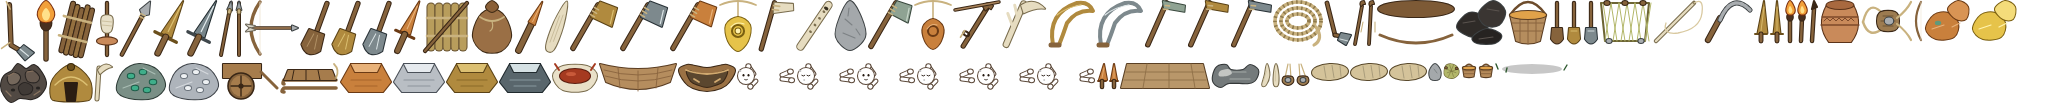
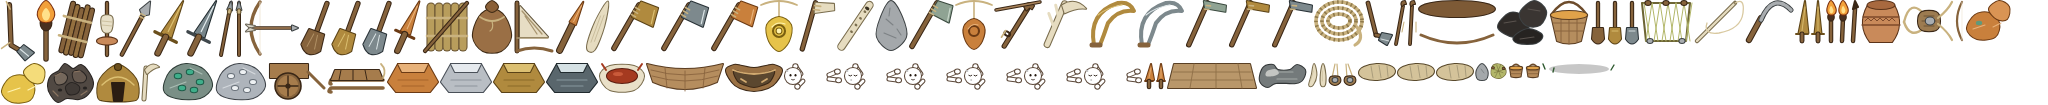
m15: enable long sea journeys with researched physical sails

diff --git a/src/sim/world/ComarcaFrontier.ts b/src/sim/world/ComarcaFrontier.ts
@@ -137,6 +137,14 @@ export class ComarcaFrontier {
         !Number.isSafeInteger(record.lastAdvancedTick) || record.lastAdvancedTick < record.departureTick || record.lastAdvancedTick > record.arrivalTick ||
         !Array.isArray(record.route) || record.route.length < 2 || !Number.isSafeInteger(record.provisions) || record.provisions < 0 || !Number.isSafeInteger(record.preservedProvisions) || record.preservedProvisions < 0 || record.preservedProvisions > record.provisions || !Number.isSafeInteger(record.cargoUnits) || record.cargoUnits < record.provisions || !Array.isArray(record.encounters) || !record.transit || typeof record.migration!=='boolean' || typeof record.playerTravelling!=='boolean' ||
         record.transit.recordType !== 'CheckpointRecord' || record.transit.version !== 1 || !edge(record.enteringEdge)) invalid('journey');
+    const transport = record.transport;
+    if (!transport || !['foot', 'sledge', 'cart', 'pack', 'riding', 'boat', 'sail'].includes(transport.mode) ||
+        !Number.isSafeInteger(transport.distance) || transport.distance < 1 || transport.distance !== record.route.length - 1 ||
+        !Number.isFinite(transport.days) || transport.days <= 0 ||
+        !Number.isSafeInteger(transport.maximumDistance) || transport.maximumDistance < transport.distance ||
+        !Number.isFinite(transport.cargoCapacity) || transport.cargoCapacity < 0 || typeof transport.crossedSea !== 'boolean' ||
+        (['boat', 'sail'].includes(transport.mode) && !transport.crossedSea) ||
+        record.encounters.some(kind => !['storm', 'wildlife', 'settlement'].includes(kind))) invalid('journey transport');
     RNG.fromSnapshot(record.rng);
     if(record.transit.lastAdvancedTick!==record.lastAdvancedTick || record.transit.execution.time.tick!==record.lastAdvancedTick ||
        record.route[0]?.cx!==record.source.cx || record.route[0]?.cy!==record.source.cy ||
@@ -268,7 +276,7 @@ export class ComarcaFrontier {
         const route=raw.route.map((p: unknown)=>{if(!object(p)) invalid('journey route'); exact(p,['cx','cy']); return {cx:tick(p.cx,'journey cx'),cy:tick(p.cy,'journey cy')};});
         exact(raw.transport,['distance','days','maximumDistance','mode','cargoCapacity','crossedSea']);
         const transport=raw.transport as unknown as JourneyTransport;
-        if(!Number.isFinite(transport.distance)||transport.distance<1||!Number.isFinite(transport.days)||transport.days<=0||!Number.isFinite(transport.maximumDistance)||transport.maximumDistance<transport.distance||!Number.isFinite(transport.cargoCapacity)||transport.cargoCapacity<0||typeof transport.crossedSea!=='boolean'||!['foot','sledge','cart','pack','riding','boat'].includes(transport.mode)||(transport.mode==='boat'&&!transport.crossedSea))invalid('journey transport');
+        if(!Number.isFinite(transport.distance)||transport.distance<1||!Number.isFinite(transport.days)||transport.days<=0||!Number.isFinite(transport.maximumDistance)||transport.maximumDistance<transport.distance||!Number.isFinite(transport.cargoCapacity)||transport.cargoCapacity<0||typeof transport.crossedSea!=='boolean'||!['foot','sledge','cart','pack','riding','boat','sail'].includes(transport.mode)||(transport.mode==='sail'&&!transport.crossedSea)||(transport.mode==='boat'&&!transport.crossedSea))invalid('journey transport');
         frontier.setJourney({recordType:'ComarcaJourneyRecord',version:1,actorId:safeId(raw.actorId,'journey actor'),travellerIds:(()=>{if(!Array.isArray(raw.travellerIds)||!raw.travellerIds.length)invalid('journey travellers');const ids=raw.travellerIds.map((id:unknown)=>safeId(id,'journey traveller'));if(new Set(ids).size!==ids.length||!ids.includes(raw.actorId as number))invalid('journey travellers');return ids;})(),source:identity(raw.source),destination:identity(raw.destination),departureTick:tick(raw.departureTick,'journey departure'),arrivalTick:tick(raw.arrivalTick,'journey arrival'),lastAdvancedTick:tick(raw.lastAdvancedTick,'journey advanced'),route,enteringEdge:raw.enteringEdge,provisions:tick(raw.provisions,'journey provisions'),preservedProvisions:tick(raw.preservedProvisions,'journey preserved provisions'),cargoUnits:tick(raw.cargoUnits,'journey cargo'),migration:raw.migration,playerTravelling:raw.playerTravelling,transport,transit:raw.transit as unknown as CheckpointRecord,rng:raw.rng as ReturnType<RNG['snapshot']>,encounters:raw.encounters.map((e:unknown)=>{if(typeof e!=='string') invalid('journey encounter'); return e;})});
       }
     }

diff --git a/src/sim/world/Transport.ts b/src/sim/world/Transport.ts
@@ -7,7 +7,7 @@ export interface JourneyTransport {
   readonly distance: number;
   readonly days: number;
   readonly maximumDistance: number;
-  readonly mode: 'foot' | 'sledge' | 'cart' | 'pack' | 'riding' | 'boat';
+  readonly mode: 'foot' | 'sledge' | 'cart' | 'pack' | 'riding' | 'boat' | 'sail';
   readonly cargoCapacity: number;
   readonly crossedSea: boolean;
 }
@@ -19,7 +19,6 @@ export interface JourneyTransportOptions {
   readonly mapHeight: number;
   readonly seaCells: number;
   readonly snow: boolean;
-  readonly animalSpeed?: number;
   readonly animal?: { readonly mode: 'pack' | 'riding'; readonly capacity: number; readonly speed: number } | null;
 }
 function equipped(person: Person, item: string): boolean {
@@ -33,7 +32,9 @@ export function journeyTransport(options: JourneyTransportOptions): JourneyTrans
   if (!Number.isSafeInteger(distance) || distance < 1 || options.mapHeight < 1 || options.mapWidth < 2) return null;
   const crossedSea = options.seaCells > 0;
   const hasLogboat = person.inventory.count('logboat') > 0 && techPower(person, 'logboat') > 0;
+  const hasSail = person.inventory.count('sail') > 0 && techPower(person, 'sail') > 0;
   if (crossedSea && !hasLogboat) return null;
+  if (crossedSea && (options.seaCells > 1 || distance > 1) && !hasSail) return null;
   let maximumDistance = 1, cargoCapacity = 0, speed = 1;
   let mode: JourneyTransport['mode'] = 'foot';
   if (options.animal?.mode === 'riding' && techPower(person, 'horse_riding') > 0) {
@@ -41,7 +42,11 @@ export function journeyTransport(options: JourneyTransportOptions): JourneyTrans
   } else if (options.animal?.mode === 'pack' && techPower(person, 'pack_animals') > 0) {
     maximumDistance = 2; mode = 'pack'; cargoCapacity += options.animal.capacity;
   }
-  if (crossedSea) { maximumDistance = 1; mode = 'boat'; speed = 1; }
+  if (crossedSea && !hasSail) { maximumDistance = 1; mode = 'boat'; }
+  // Sail is the explicit long-distance sea gate. Apply its range before the
+  // common range check; checking the coastal range first made the sail node
+  // decorative for every non-contiguous route.
+  if (crossedSea && hasSail) { mode = 'sail'; maximumDistance = Number.MAX_SAFE_INTEGER; speed = Math.max(speed, 1.5); }
   if (distance > maximumDistance) return null;
   if (equipped(person, 'sledge') && techPower(person, 'sledge') > 0) {
     cargoCapacity += ITEMS.sledge?.container?.capacity ?? 0;
@@ -58,7 +63,9 @@ export function comarcaRoute(from: JourneyPoint, to: JourneyPoint, mapWidth: num
   const east = (to.cx - from.cx + mapWidth) % mapWidth;
   const west = (from.cx - to.cx + mapWidth) % mapWidth;
   const stepX = east <= west ? 1 : -1, horizontal = Math.min(east, west);
-  const result: JourneyPoint[] = [{ ...from }];
+  // Coordinates only: a ComarcaIdentity may be passed structurally, but its
+  // geography fields do not belong in the persisted route-point schema.
+  const result: JourneyPoint[] = [{ cx: from.cx, cy: from.cy }];
   let x = from.cx;
   for (let i = 0; i < horizontal; i++) { x = (x + stepX + mapWidth) % mapWidth; result.push({ cx: x, cy: from.cy }); }
   const stepY = to.cy < from.cy ? -1 : 1;

diff --git a/e2e/phase35-sail.spec.ts b/e2e/phase35-sail.spec.ts
@@ -1,0 +1,37 @@
+import { test, expect } from '@playwright/test';
+
+const SHOTS = process.env.DYNASTY_CAPTURE_DIR ?? 'artifacts/screenshots/m15-phase35-sail-2026-10-09';
+
+test('long sea journeys require logboat plus researched and physical sail', async ({ page }) => {
+  await page.goto('/?skipIntro=1&seed=e2e-sail&world=random');
+  await expect(page.locator('.hud-name')).not.toBeEmpty({ timeout: 20_000 });
+  const result = await page.evaluate(async () => {
+    const d = (window as any).__dynasty, sim = d.sim, actor = sim.player, from = sim.comarcaAtTile(actor.x, actor.y);
+    const width = sim.worldFrame.mapWidth, height = sim.worldFrame.mapHeight;
+    const routeOf = (to: {cx:number;cy:number}) => {
+      const east=(to.cx-from.cx+width)%width, west=(from.cx-to.cx+width)%width, step=east<=west?1:-1, n=Math.min(east,west);
+      const route=[{cx:from.cx,cy:from.cy}]; let x=from.cx; for(let i=0;i<n;i++){x=(x+step+width)%width;route.push({cx:x,cy:from.cy});}
+      let y=from.cy; const dy=to.cy<from.cy?-1:1; while(y!==to.cy){y+=dy;route.push({cx:x,cy:y});} return route;
+    };
+    let target: {cx:number;cy:number}|null=null;
+    for(let radius=2;radius<=24&&!target;radius++) for(let dy=-radius;dy<=radius&&!target;dy++) for(let dx=-radius;dx<=radius&&!target;dx++) {
+      if(Math.abs(dx)+Math.abs(dy)!==radius) continue;
+      const cx=(from.cx+dx+width)%width,cy=from.cy+dy;if(cy<0||cy>=height)continue;
+      const terrain=d.worldState.geography.profileAt(cx,cy), land=terrain.kind==='earth'?terrain.land:terrain.kind==='random'?terrain.biome!=='ocean':false;
+      if(!land)continue;
+      const route=routeOf({cx,cy}); const sea=route.slice(1).filter((p:any)=>{const t=d.worldState.geography.profileAt(p.cx,p.cy);return t.kind==='earth'?!t.land:t.kind==='random'?t.elevation<=0:false;}).length;
+      if(sea>=1)target={cx,cy};
+    }
+    if(!target)throw new Error('The fixture must have a nearby land destination beyond the coast');
+    actor.inventory.add('logboat',1); actor.knownTech.add('logboat'); actor.worldKnowledge.see(target.cx,target.cy,sim.time.day);
+    const withoutSail=d.worldState.startJourney(target,{requireKnowledge:false});
+    actor.inventory.add('sail',1); actor.knownTech.add('sail');
+    const withSail=d.worldState.startJourney(target,{requireKnowledge:false});
+    return { withoutSail, withSail, mode:d.worldState.frontier.pendingJourney?.transport.mode, target };
+  });
+  expect(result.withoutSail).toMatch(/transport needed/i);
+  expect(result.withSail).toBeNull();
+  expect(result.mode).toBe('sail');
+  await expect(page.locator('.journey-status')).toContainText('Under sail', { timeout: 10_000 });
+  await page.screenshot({ path: `${SHOTS}/01-long-sea-journey.png` });
+});

diff --git a/src/sim/__tests__/journey-transport.test.ts b/src/sim/__tests__/journey-transport.test.ts
@@ -28,12 +28,14 @@ describe('comarca journey transport', () => {
     expect(journeyTransport(options(person, { to: { cx: 7, cy: 4 }, animal: { mode: 'pack', capacity: 24, speed: 1 } }))).toBeNull();
   });
 
-  it('requires a logboat and its technology for a coastal crossing', () => {
+  it('requires logboat for a coast and both sail gates beyond the coast', () => {
     const person = traveller();
     expect(journeyTransport(options(person, { seaCells: 1 }))).toBeNull();
     person.inventory.add('logboat', 1); person.knownTech.add('logboat');
     expect(journeyTransport(options(person, { seaCells: 1 }))?.mode).toBe('boat');
     expect(journeyTransport(options(person, { to: { cx: 6, cy: 4 }, seaCells: 2 }))).toBeNull();
+    person.inventory.add('sail', 1); person.knownTech.add('sail');
+    expect(journeyTransport(options(person, { to: { cx: 6, cy: 4 }, seaCells: 2 }))?.mode).toBe('sail');
   });
 
   it('requires an equipped, researched sledge and changes speed with snow', () => {
@@ -48,14 +50,16 @@ describe('comarca journey transport', () => {
     expect(snowy?.days).toBe(0.8);
   });
 
-  it('requires both a riding lease and riding practice for longer routes', () => {
+  it('requires both the riding lease and both sail gates', () => {
     const person = traveller();
     person.knownTech.add('horse_riding');
     expect(journeyTransport(options(person, { to: { cx: 7, cy: 4 } }))).toBeNull();
-    const ride = journeyTransport(options(person, { to: { cx: 7, cy: 4 }, animal: { mode: 'riding', capacity: 0, speed: 1.5 } }));
-    expect(ride?.mode).toBe('riding');
-    expect(ride?.maximumDistance).toBe(3);
-    expect(ride?.days).toBe(2);
+    expect(journeyTransport(options(person, { to: { cx: 7, cy: 4 }, animal: { mode: 'riding', capacity: 0, speed: 1.5 } }))?.maximumDistance).toBe(3);
+    person.inventory.add('logboat', 1); person.knownTech.add('logboat');
+    person.inventory.add('sail', 1);
+    expect(journeyTransport(options(person, { to: { cx: 8, cy: 4 }, seaCells: 2 }))).toBeNull();
+    person.knownTech.add('sail');
+    expect(journeyTransport(options(person, { to: { cx: 8, cy: 4 }, seaCells: 2 }))?.mode).toBe('sail');
   });
 
   it('chooses a deterministic short wrapped route', () => {

diff --git a/src/sim/knowledge/Tech.ts b/src/sim/knowledge/Tech.ts
@@ -198,7 +198,7 @@ export const TECHS = [
   // M15 phase 40f: a plough's crop gain is paid at sowing and stored on the crop.
   'ploughshare',
   // M15 phase 35: physical transport and its journey policy ship together.
-  'sledge', 'pack_animals', 'horse_riding',
+  'sledge', 'pack_animals', 'horse_riding', 'sail',
 ] as const;
 export type Tech = (typeof TECHS)[number];
 
@@ -1715,6 +1715,15 @@ export const TECH: Record<Tech, TechDef> = {
       { needs: [{ kind: 'knows', tech: 'taming' }, { kind: 'doing', action: 'scout' }], weight: 0.7, story: 'returned tired from scouting and watched a horse cover the same ground easily' }],
     description: 'A living tame horse bears its rider on longer journeys and brings a scout home sooner.',
   },
+  sail: {
+    id: 'sail', label: 'Sailing', domain: 'water', age: 'bronze', firstKnown: 'about 3,500 BC',
+    kind: 'device', requires: ['weaving', 'logboat'], difficulty: 0.6, skill: 'build',
+    prototype: { cloth: 2, rope: 1 }, maxRefinement: 2,
+    sparks: [{ needs: [{ kind: 'knows', tech: 'logboat' }, { kind: 'holding', item: 'cloth' }],
+      weight: 1, story: 'held a woven cloth in the wind above a boat and felt it pull' },
+      { needs: [{ kind: 'knows', tech: 'logboat' }, { kind: 'doing', action: 'boat' }], weight: 0.7, story: 'paddled against a wind that could have carried the boat the other way' }],
+    description: 'A woven sail and a physical boat turn wind into a passage between distant coasts.',
+  },
   the_wheel: {
     id: 'the_wheel', label: 'The wheel', domain: 'timber',
     age: 'neolithic', firstKnown: 'about 3500 BC',
@@ -2777,6 +2786,10 @@ export const TECH_EFFECTS: Record<Tech, TechEffect> = {
   horse_riding: {
     summary: 'A living tame horse enables three-comarca journeys and faster scouting.',
     site: 'core/TransportAnimals.ts; world/Transport.ts and WorldState journey/scout policy',
+  },
+  sail: {
+    summary: 'A physical sail fitted to a logboat enables sea routes between distant coasts.',
+    site: 'RECIPES.sail; world/Transport.ts and WorldState journey routes',
   },
   the_wheel: {
     summary: 'A physical equipped cart carries more and halves land journey time.',

diff --git a/src/main.ts b/src/main.ts
@@ -2591,7 +2591,7 @@ function frame(now: number): void {
   if (journey) {
     const ticksPerDay = worldState.current.config.time.ticksPerDay;
     const encounterText = journey.encounters.length ? journey.encounters.map(kind => { switch (kind) { case 'wildlife': return t('Wildlife encounter'); case 'storm': return t('Storm delay'); default: return t('Settlement sighted'); } }).join(', ') : t('No encounters');
-    const journeyMode = (() => { switch (journey.transport.mode) { case 'foot': return t('On foot'); case 'sledge': return t('By sledge'); case 'cart': return t('By cart'); case 'pack': return t('With a pack animal'); case 'riding': return t('On horseback'); case 'boat': return t('By boat');  } })();
+    const journeyMode = (() => { switch (journey.transport.mode) { case 'foot': return t('On foot'); case 'sledge': return t('By sledge'); case 'cart': return t('By cart'); case 'pack': return t('With a pack animal'); case 'riding': return t('On horseback'); case 'boat': return t('By boat'); case 'sail': return t('Under sail'); } })();
     const journeyState = worldState.current.time.tick >= journey.arrivalTick ? (worldState.current.lastRefusal ? t('Arrival delayed: {reason}', { reason: worldState.current.lastRefusal }) : t('Arriving')) : t('Travelling');
     journeyStatus.textContent = t('{status}: {mode} journey to {x}, {y}; departs day {day}; {provisions} provisions ({preserved} shelf-stable); {cargo} cargo; {encounters}; {remaining} days remaining', {
       status: journeyState, mode: journeyMode, x: journey.destination.cx + 1, y: journey.destination.cy + 1,

diff --git a/art/src/props/items.ts b/art/src/props/items.ts
@@ -14,6 +14,11 @@ export const ITEMS: ItemArt[] = [
     shape(smooth([[4, 30], [12, 25], [20, 26], [32, 28], [44, 26], [52, 25], [60, 30], [54, 42], [46, 48], [32, 51], [18, 48], [10, 42]]), '#9a7144', WOOD_D)
     + shape(smooth([[12, 31], [22, 34], [32, 35], [42, 34], [52, 31], [48, 41], [40, 45], [32, 47], [24, 45], [16, 41]]), '#5b472f', WOOD_D)
     + stroke('M11,30Q32,38 53,30M19,39L24,42M45,39L40,42', '#d1aa70', 1.8)],
+  ['sail', 'Vela', 'sail', () =>
+    limb([[20, 57], [20, 9]], 2.8, WOOD, WOOD_D)
+    + shape(poly([[23, 12], [51, 43], [23, 43]]), '#e7ddc4', '#65583f')
+    + stroke('M25,17L45,40M28,22L40,40M20,44L51,44', '#a89570', 1.3)
+    + stroke('M20,57Q37,51 55,57', WOOD, 3)],
   ['antler_pick', 'Pico de asta', 'bone_working', () => rot(
     limb([[28, 58], [32, 14]], 5, BONE, BONE_D)
     + shape('M30,16Q40,4 54,12Q44,14 35,23Z', BONE, BONE_D)

diff --git a/src/sim/entities/Item.ts b/src/sim/entities/Item.ts
@@ -89,6 +89,8 @@ export type ItemClass = 'food' | 'long' | 'small' | 'bulky' | 'loose';
 export const ITEMS: Record<string, ItemDef> = {
   raft: { id: 'raft', label: 'Reed raft', nutrition: 0, spoilTicks: 0, baseValue: 12,
     class: 'bulky', hand: { perHand: 0, perArms: 2, hands: 2, shoulder: 0 } },
+  sail: { id: 'sail', label: 'Sail', nutrition: 0, spoilTicks: 0, baseValue: 18,
+    class: 'long', hand: { perHand: 1, perArms: 1, hands: 2 } },
   logboat: { id: 'logboat', label: 'Logboat', nutrition: 0, spoilTicks: 0, baseValue: 24,
     class: 'bulky', hand: { perHand: 0, perArms: 1, hands: 2, shoulder: 0 } },
   berries:  { id: 'berries',  label: 'Berries',    nutrition: 14, hydration: 4, spoilTicks: 2400, baseValue: 1, macros: { fat: 0.05, protein: 0.05, carb: 0.90 }, class: 'food', hand: { perHand: 4, perArms: 10, hands: 1 } },

diff --git a/src/sim/entities/Recipe.ts b/src/sim/entities/Recipe.ts
@@ -84,6 +84,8 @@ export const RECIPES: Record<string, RecipeDef> = {
   // Kept at zero: a raft is made for a journey, not a new universal AI tax.
   raft: { id: 'raft', label: 'Reed raft', icon: '🛶', tech: 'cordage', skill: 'build',
     workTicks: 120, ingredients: { thatch: 6, sticks: 2, rope: 1 }, output: { raft: 1 }, keep: 0 },
+  sail: { id: 'sail', label: 'Sail', icon: '⛵', tech: 'sail', skill: 'build',
+    workTicks: 100, ingredients: { cloth: 3, rope: 2, sticks: 2 }, output: { sail: 1 }, keep: 0 },
   logboat: { id: 'logboat', label: 'Logboat', icon: '🛶', tech: 'logboat', skill: 'build',
     workTicks: 120, ingredients: { wood: 4, rope: 2 }, output: { logboat: 1 }, keep: 0 },
   handaxe: {

diff --git a/src/sim/__tests__/tech.test.ts b/src/sim/__tests__/tech.test.ts
@@ -531,7 +531,7 @@ describe('recipes', () => {
     for (const recipe of Object.values(RECIPES)) {
       const output = Object.keys(recipe.output)[0]!;
       expect(
-        recipe.keep > 0 || wantedByBuildings.has(output) || ['raft', 'logboat'].includes(output),
+        recipe.keep > 0 || wantedByBuildings.has(output) || ['raft', 'logboat', 'sail'].includes(output),
         recipe.id + ' makes ' + output + ', which nothing wants'
       ).toBe(true);
     }

diff --git a/docs/changelog.md b/docs/changelog.md
@@ -1,3 +1,7 @@
+## 2026-10-09 — M15 fase 35: vela y rutas marítimas largas
+
+La vela es una receta y un objeto físicos. Requiere tejido y canoa; el plan marítimo exige además una canoa en el inventario y ambas prácticas. Solo esa combinación abre rutas por mar no contiguas y su velocidad; las negativas separan técnica de posesión. Arte generado y etiquetas traducidas. Captura revisada: artifacts/screenshots/m15-phase35-sail-2026-10-09/01-long-sea-journey.png. E2E de las cuatro puertas pasa. La versión aislada pasa typecheck y 76/76 pruebas focales en cuatro ficheros. [Contrato](m15_phase35_journeys.md). No se mide economía ni correspondencia anual; cohorts/matriz diferidas.
+
 ## 2026-10-09 — M15 fase 35: asnos de carga y caballos de monta
 
 Animales individuales y técnica se necesitan juntos. Una asignación recíproca añade 24 unidades de carga para el asno o reduce el tiempo de viaje/exploración con un caballo; la marcha local mantiene su velocidad. El menú permite asignar y liberar, y liberar impide la reasignación automática. Se conservan identidades al viajar y se rechazan colisiones antes de mover hogares o inventarios. Generación propia derivada de semilla sin alterar PREY_SPECIES, forks o spawnRng. Migración y lectores canónicos prueban muerte, pérdida de dueño y distancia. [Contrato](m15_phase35_animals.md). Capturas: artifacts/screenshots/m15-phase35-animals-clear-2026-10-09/. Cohortes diferidas por AGENTS.md; ninguna mejora económica medida. Versión aislada: typecheck y 101/101 pruebas focales en ocho ficheros pasan. Verificación conjunta final pendiente.

diff --git a/docs/architecture.md b/docs/architecture.md
@@ -794,3 +794,5 @@ World conserva el modo boat de balsa dulce y añade logboat con regiones propias
 ComarcaFrontier v5 guarda una ruta y el único checkpoint de destino preparado. WorldState mantiene la autoridad detallada en el origen durante el tránsito y transfiere al destino al llegar. Las versiones anteriores cargan sin ticket. La partida incluye seguidores aceptados y dependientes cargados. Cada tick de ruta usa necesidades y consumo habituales y cada medianoche deteriora provisiones físicas; el cero global de spoilRate no desactiva ese deterioro exclusivo del tránsito. El ticket avanza solo viajeros: residentes/ecología del destino y LifeSystem.daily quedan fuera de este adaptador. Transport.ts calcula alcance y duración a partir de técnica y medio físico. Ver m15_phase35_journeys.md.
 
 Los animales de transporte tienen una asignación recíproca persona/animal. TransportAnimals resuelve la entidad viva canónica y valida práctica, dueño y alcance; las cachés no crean capacidad por sí solas. Una pasada de generación derivada de semilla añade asnos/caballos después de los spawns existentes sin consumir spawnRng. La velocidad de monta se aplica solo a viajes y retorno de exploración.
+
+La vela concede alcance marítimo únicamente al plan de viaje con canoa y vela físicas y sus dos prácticas. El modo de paso local sigue siendo el de la canoa; la vela no altera los costes del movimiento local.
